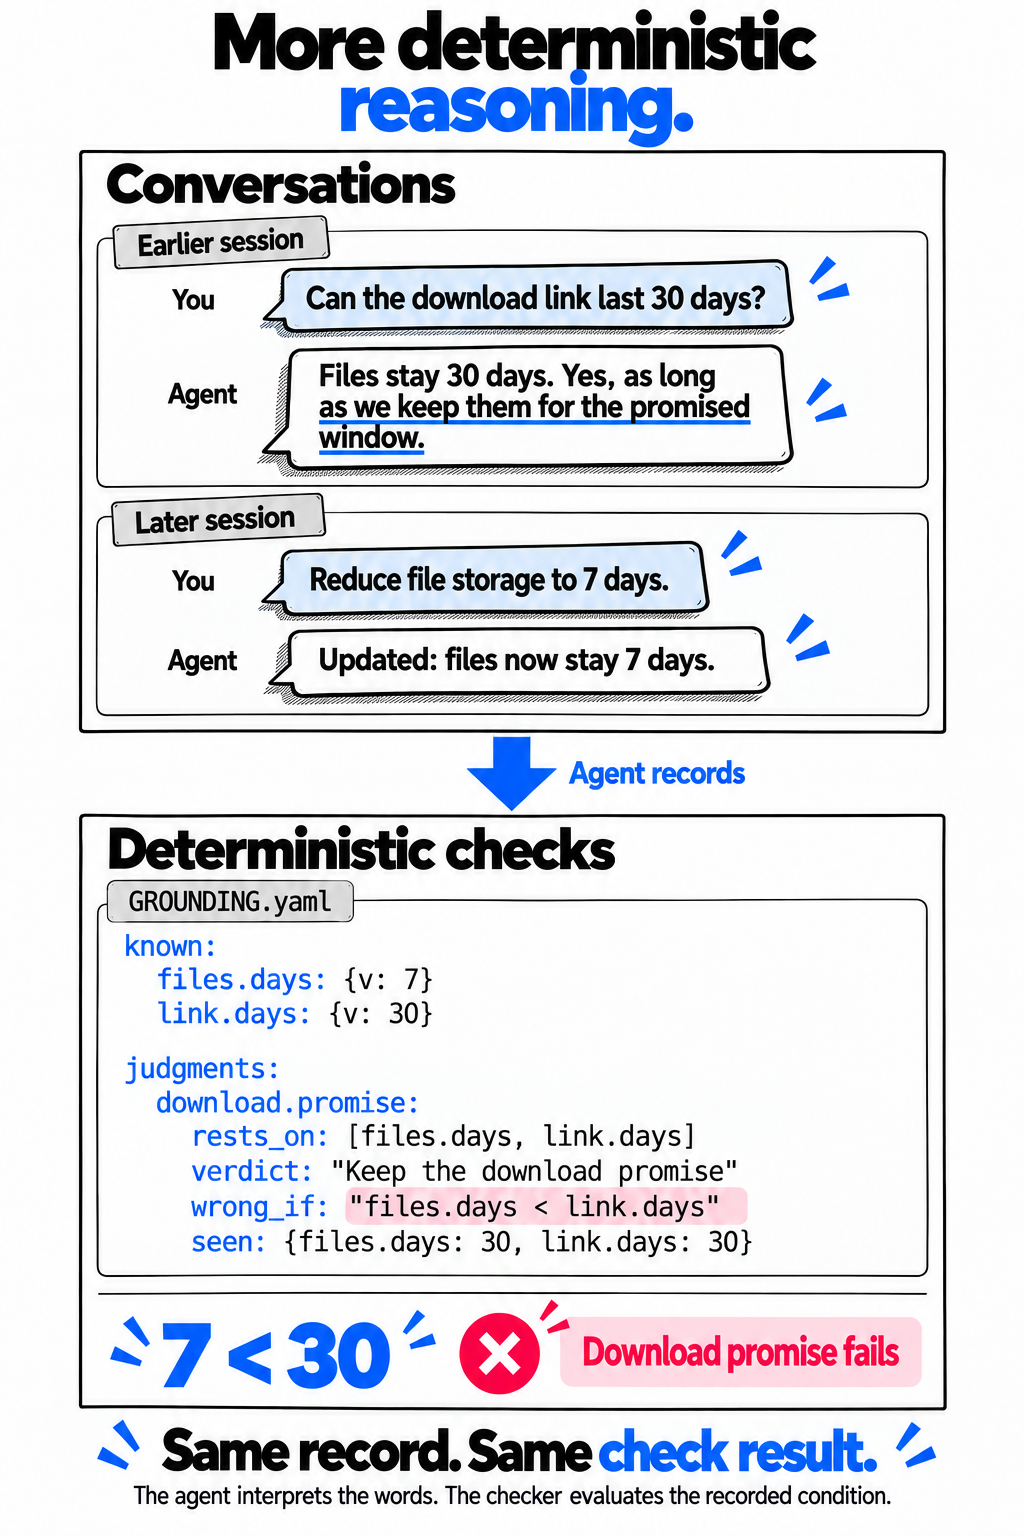
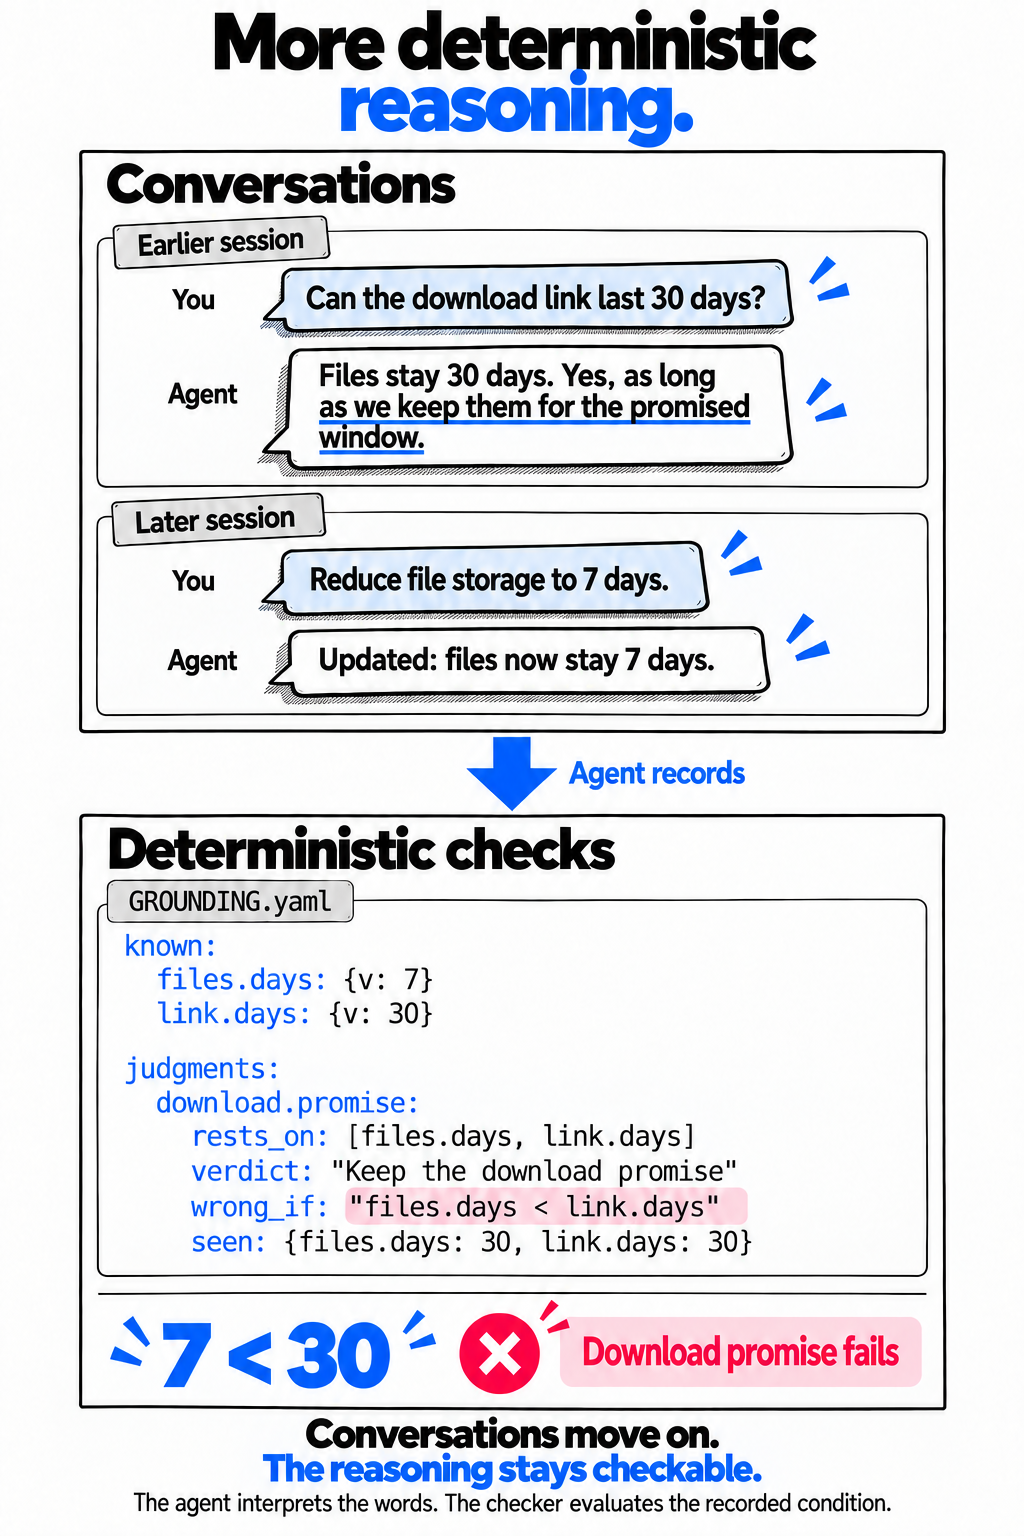
Close the reasoning overview with continuity across conversations

diff --git a/README.md b/README.md
@@ -25,7 +25,7 @@ reach through the record and surfaces what needs another look.
   <a href="assets/diagrams/reasoning-check.png">
     <picture>
       <source media="(max-width: 600px)" srcset="assets/diagrams/reasoning-check-mobile.png">
-      <img src="assets/diagrams/reasoning-check.png" width="760" alt="More deterministic reasoning. Conversations on the left show an earlier session agreeing to 30-day downloads because files stay 30 days, followed by a later session reducing storage to seven days. An Agent records arrow leads to Deterministic checks on the right: YAML preserves the decision, current values and earlier review snapshot. Directly below the YAML, seven less than thirty produces Download promise fails. The agent interprets the words; the checker evaluates the recorded condition.">
+      <img src="assets/diagrams/reasoning-check.png" width="760" alt="More deterministic reasoning. Conversations on the left show an earlier session agreeing to 30-day downloads because files stay 30 days, followed by a later session reducing storage to seven days. An Agent records arrow leads to Deterministic checks on the right: YAML preserves the decision, current values and earlier review snapshot. Directly below the YAML, seven less than thirty produces Download promise fails. The closing line reads Conversations move on. The reasoning stays checkable. The agent interprets the words; the checker evaluates the recorded condition.">
     </picture>
   </a>
 </p>

diff --git a/assets/diagrams/README.md b/assets/diagrams/README.md
@@ -21,6 +21,8 @@ checks**. An earlier session establishes the promise and its reason; a later one
 changes retention. An **Agent records** arrow connects the dialogue to the YAML.
 The comparison and **Download promise fails** result sit directly below the code,
 inside the same panel. The phone layout stacks these two parts.
+Both close with **Conversations move on. The reasoning stays checkable.** The
+desktop uses one line; the phone uses two for readability.
 
 **More** describes the shift of selected reasoning steps into
 explicit, repeatable checks. The agent still interprets sources and chooses the
